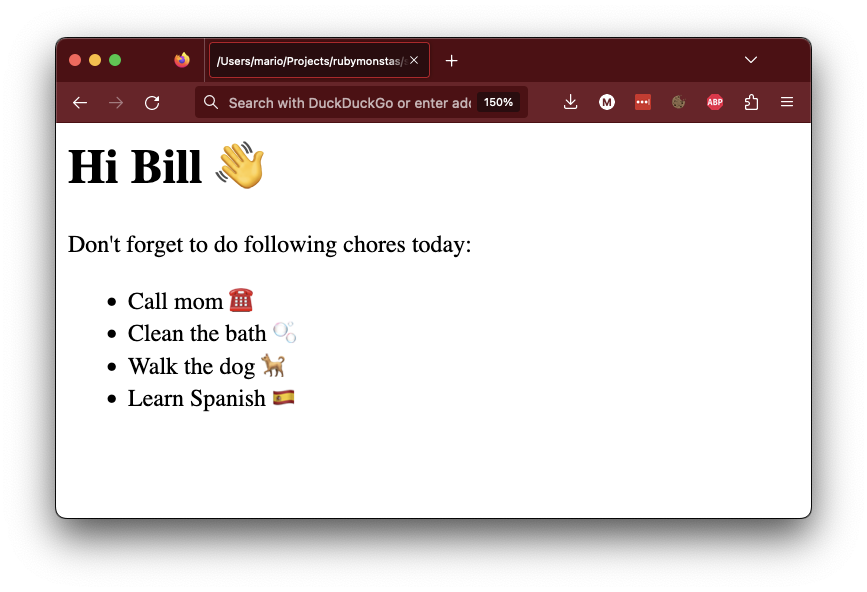
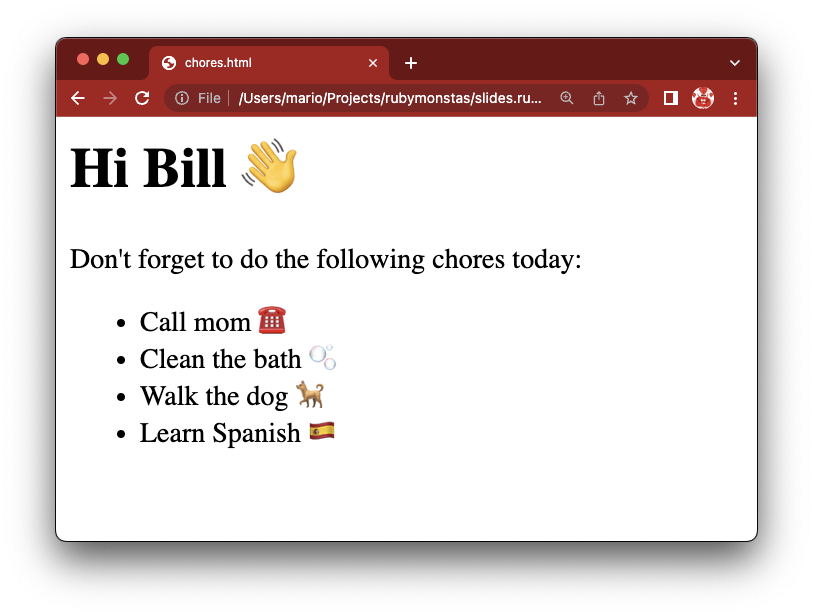
fix phrasing in chores example

Changed region(s): [[0.0615, 0.0608, 0.9533, 0.8818], [0.123, 0.4865, 0.4305, 0.7297]]

diff --git a/slides/erb/index.html b/slides/erb/index.html
@@ -262,7 +262,7 @@ Good luck! 🍀</code></pre>
             <p class="text-xl"><code>File ./chores.html</code></p>
             <pre><code class="hljs html">&lt;h1&gt;Hi <%= username %> 👋&lt;/h1&gt;
 
-&lt;p&gt;Don't forget to do following chores today:&lt;/p&gt;
+&lt;p&gt;Don't forget to do the following chores today:&lt;/p&gt;
 
 &lt;ul&gt;
   <% chores.each do |chore| %>
@@ -298,7 +298,7 @@ ERB.new(template).result(binding)</code></pre>
             <p>HTML Output</p>
             <pre><code class="hljs html">&lt;h1&gt;Hi Bill 👋&lt;/h1&gt;
 
-&lt;p&gt;Don't forget to do following chores today:&lt;/p&gt;
+&lt;p&gt;Don't forget to do the following chores today:&lt;/p&gt;
 
 &lt;ul&gt;
   &lt;li&gt;Call mom ☎&lt;/li&gt;

diff --git a/slides/erb/examples/chores/chores.html b/slides/erb/examples/chores/chores.html
@@ -1,0 +1,15 @@
+<h1>Hi Bill 👋</h1>
+
+<p>Don't forget to do the following chores today:</p>
+
+<ul>
+  
+    <li>Call mom ☎</li>
+  
+    <li>Clean the bath 🫧</li>
+  
+    <li>Walk the dog 🐕</li>
+  
+    <li>Learn Spanish 🇪🇸</li>
+  
+</ul>

diff --git a/slides/erb/examples/chores/chores.rb b/slides/erb/examples/chores/chores.rb
@@ -1,0 +1,14 @@
+username = "Bill"
+
+chores = [
+  "Call mom ☎",
+  "Clean the bath 🫧",
+  "Walk the dog 🐕",
+  "Learn Spanish 🇪🇸"
+]
+
+require "erb"
+template = File.read("./chores.html.erb")
+result = ERB.new(template).result(binding)
+
+File.write("./chores.html", result)
